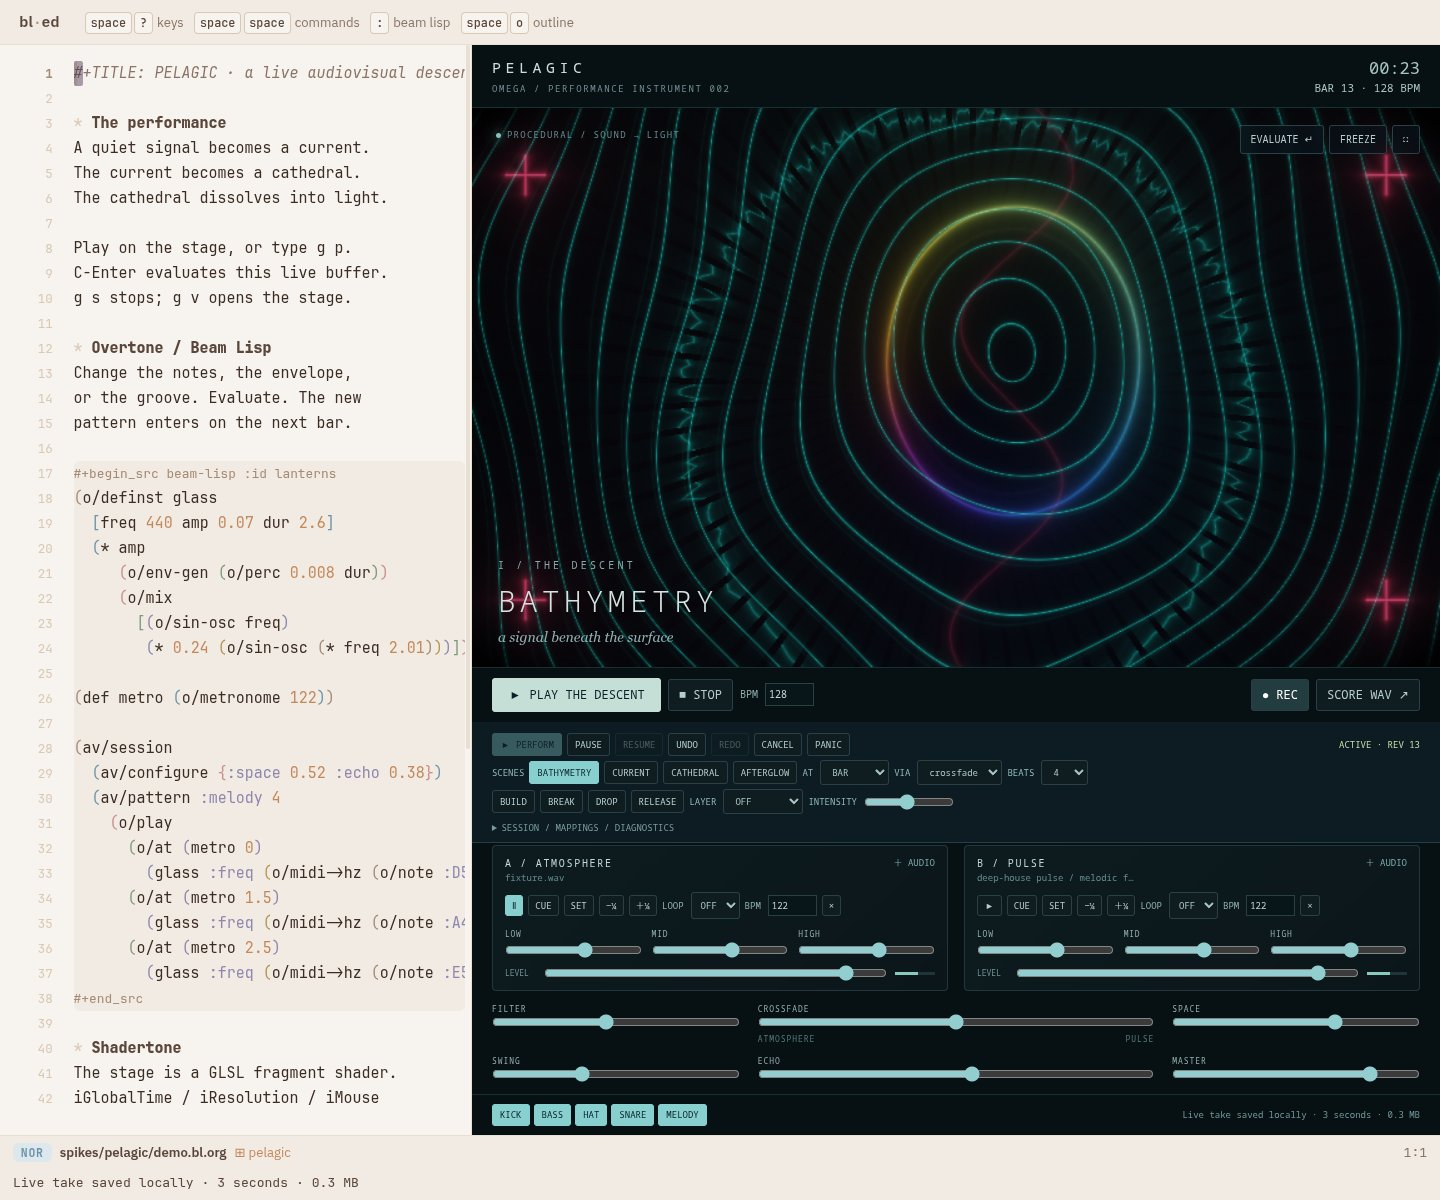
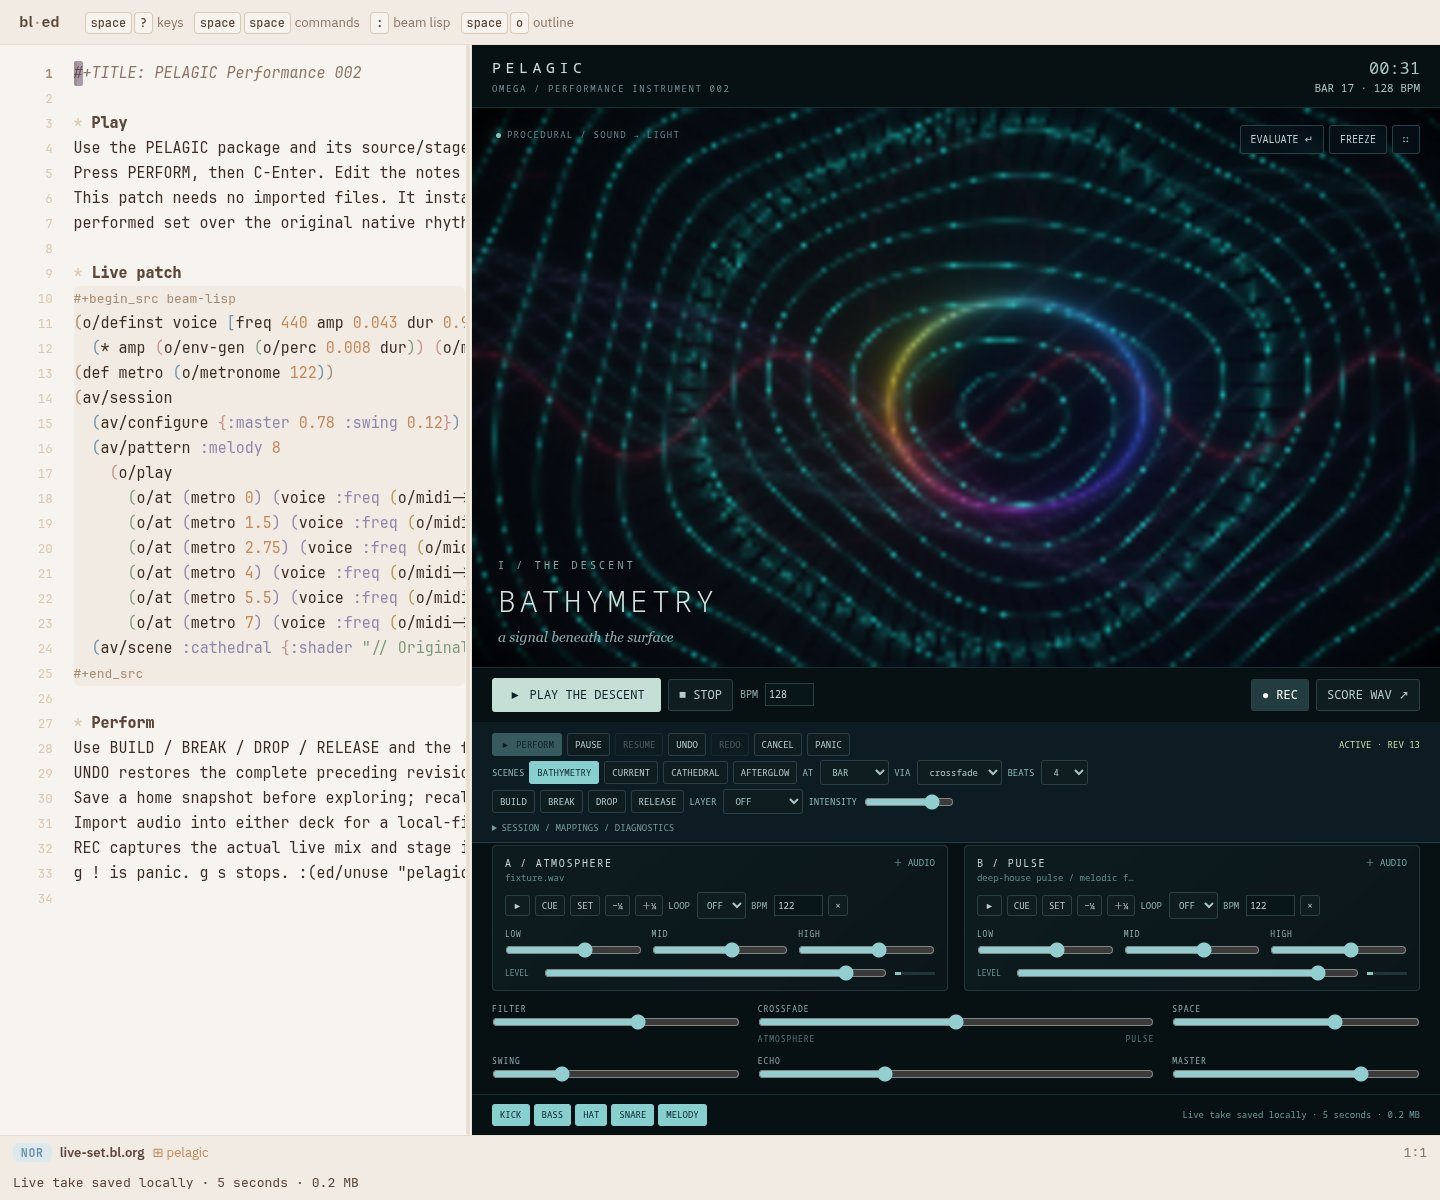
pelagic: isolate graphics deadlines and compile realtime policies from BL

diff --git a/spikes/pelagic/test/performance-browser.py b/spikes/pelagic/test/performance-browser.py
@@ -42,7 +42,7 @@ with sync_playwright() as p:
  assert page.evaluate(q+'.config().kick') is False;assert page.evaluate(q+'.model().current.visual.overlay')=='afterglow';done('gestures layering and seeded variations')
  active(page.evaluate(q+'.request({kind:"undo"})'));assert page.evaluate(q+'.config().kick') is True
  active(page.evaluate(q+'.request({kind:"redo"})'));assert page.evaluate(q+'.config().kick') is False;done('undo and redo restore whole performance')
- active(page.evaluate(q+'.request({kind:"recall",name:"home"})'));assert page.evaluate(q+'.model().current.visual.overlay') is None;done('snapshot recall')
+ active(page.evaluate(q+'.request({kind:"recall",name:"home"})'));assert page.evaluate(q+'.model().current.visual.overlay')==saved['state']['visual']['overlay'];done('snapshot recall')
  r=page.evaluate(q+'.request({kind:"gesture",name:"break"})');page.evaluate(q+'.request({kind:"cancel"})');page.wait_for_timeout(2200)
  assert page.evaluate(q+'.config().kick') is True;done('cancelled revision never activates')
  for name in ['current','afterglow','bathymetry']:
@@ -63,7 +63,7 @@ with sync_playwright() as p:
  page.evaluate(q+'.midi().bindings.set("0:1","crossfade");'+q+'.midi().receive({data:[176,1,32]})')
  page.wait_for_function('Math.abs('+q+'.config().crossfade-32/127)<0.001');done('MIDI CC adapter')
  with page.expect_download(timeout=20000) as download:
-  page.get_by_role('button',name='● REC',exact=True).click();page.wait_for_function(q+'.stats().recording');assert page.evaluate(q+'.shader().canvas.width===1280&&'+q+'.shader().canvas.height===720')
+  page.get_by_role('button',name='● REC',exact=True).click();page.wait_for_function(q+'.stats().recording');page.wait_for_function(q+'.stats().gpu.outputSize[0]===1280&&'+q+'.stats().gpu.outputSize[1]===720')
   page.wait_for_timeout(3000);page.get_by_role('button',name='■ SAVE REC',exact=True).click()
  download.value.save_as(str(PROOF/'live-check.webm'));done('incremental recording finalizes actual live audio and shader')
  page.screenshot(path=str(PROOF/'studio.jpg'),type='jpeg',quality=85)

diff --git a/spikes/pelagic/local.bl.md b/spikes/pelagic/local.bl.md
@@ -116,3 +116,32 @@ The browser proof and `test/startup.py` start temporary static servers and need 
 Playwright/Chromium; `CHROMIUM` overrides its executable. This optional build
 does not resolve the timing release failures recorded in the sustained
 performance proof.
+
+## Audio/video execution lanes
+
+The optional local bundle uses an owned OffscreenCanvas worker when supported.
+The real editor and controls keep their normal host lifecycle. Rendering has one
+frame in flight and one replaceable pending snapshot, with a 15-second failure
+watchdog. Unuse terminates the worker and releases its validation context. Browsers
+without this capability retain the original main-thread stage.
+
+Clock projection, adaptive resolution, output-clock selection and the bounded
+immutable score cache are written in the annotated `pelagic.browser` namespace
+and compiled with the same BL pipeline. Web Audio continues to render through
+native browser audio nodes. Automatic quality changes are private to rendering;
+patch authors keep using the existing scene, shader and instrument APIs.
+
+Synchronous shader validation preserves whole-revision rejection; a small off-DOM
+context prepares programs, while the worker owns all per-frame rendering. Actual
+1280×720 VP8 capture, invalid-shader rejection, context loss/restoration and exact
+unuse passed the real-editor drive in `test/performance-browser.py` (20 checks).
+34 package tests pass, including finite cache eviction, score/mute equivalence,
+cross-realm clock projection and stale output-timestamp fallback.
+
+Real editor with the package: ![worker stage](proof/performance/studio.jpg)
+After unuse: ![restored editor](proof/performance/unused.jpg)
+
+Diagnostics distinguish main-thread frame cadence, worker cadence, worker CPU
+submission work and AV submission acknowledgements. Worker acknowledgements
+include round-trip delay; neither they nor audio sample probes measure physical
+speaker/display synchronization. The 16 ms end-to-end target remains open.
